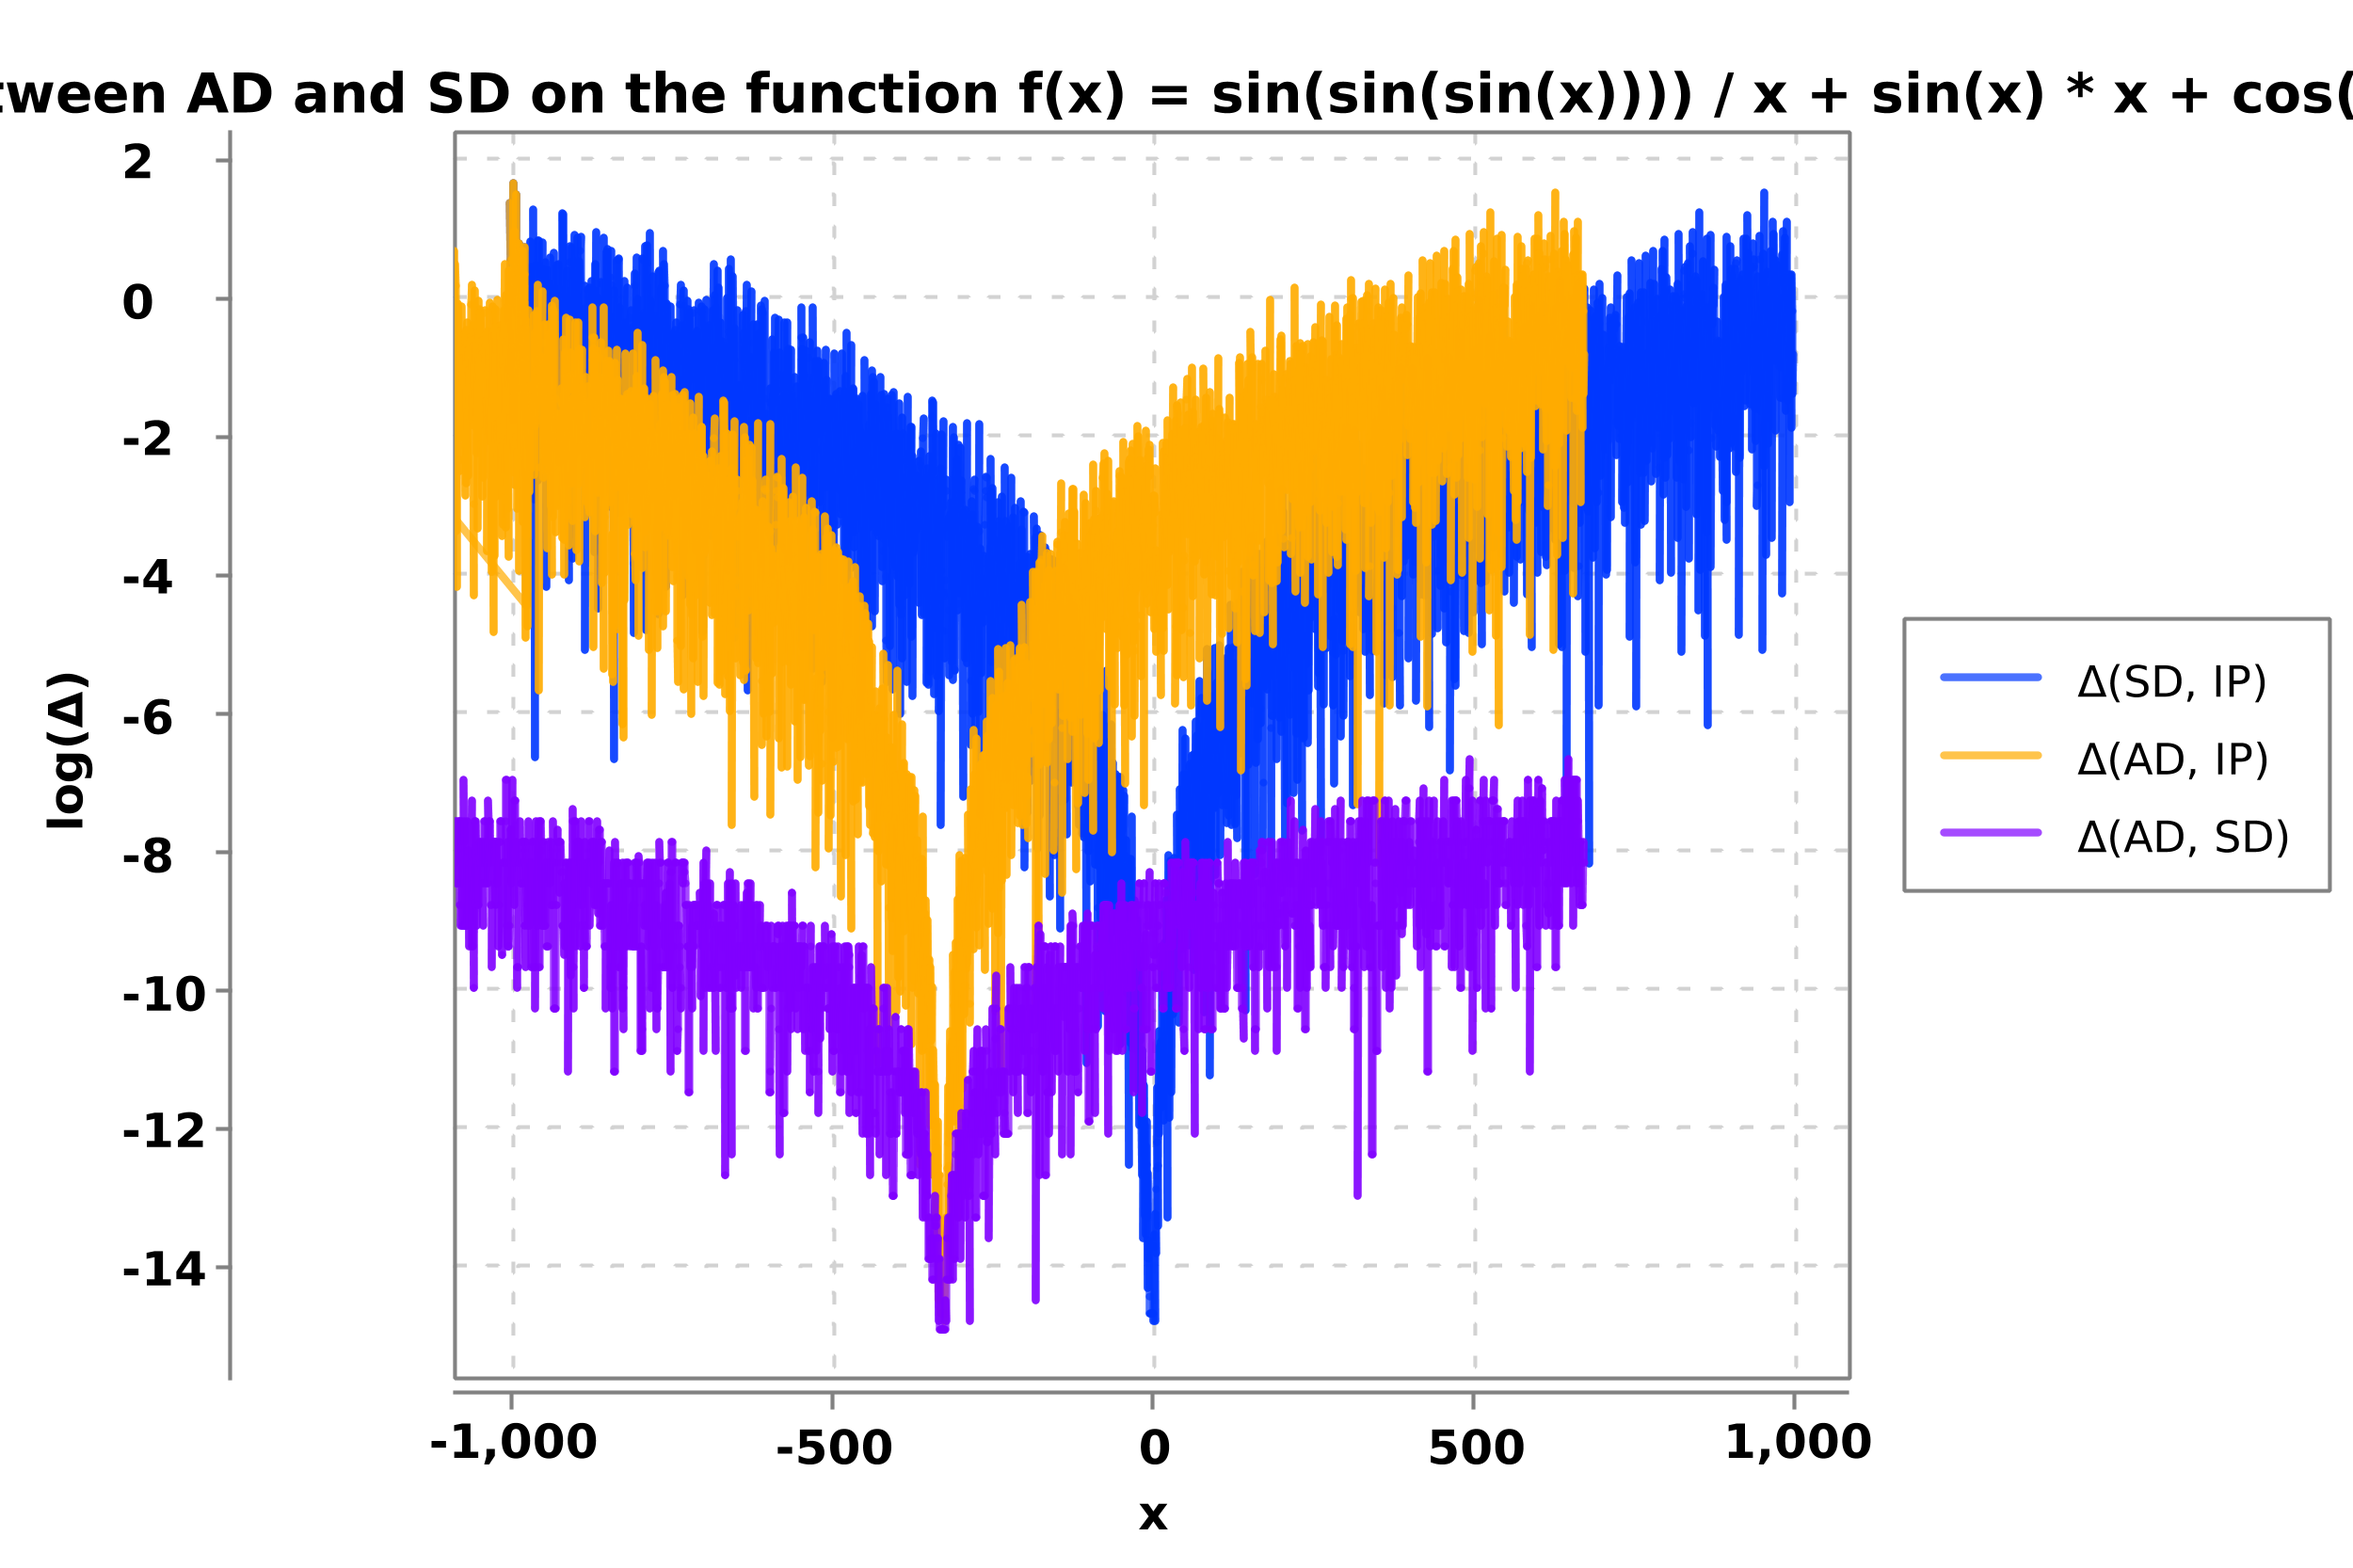
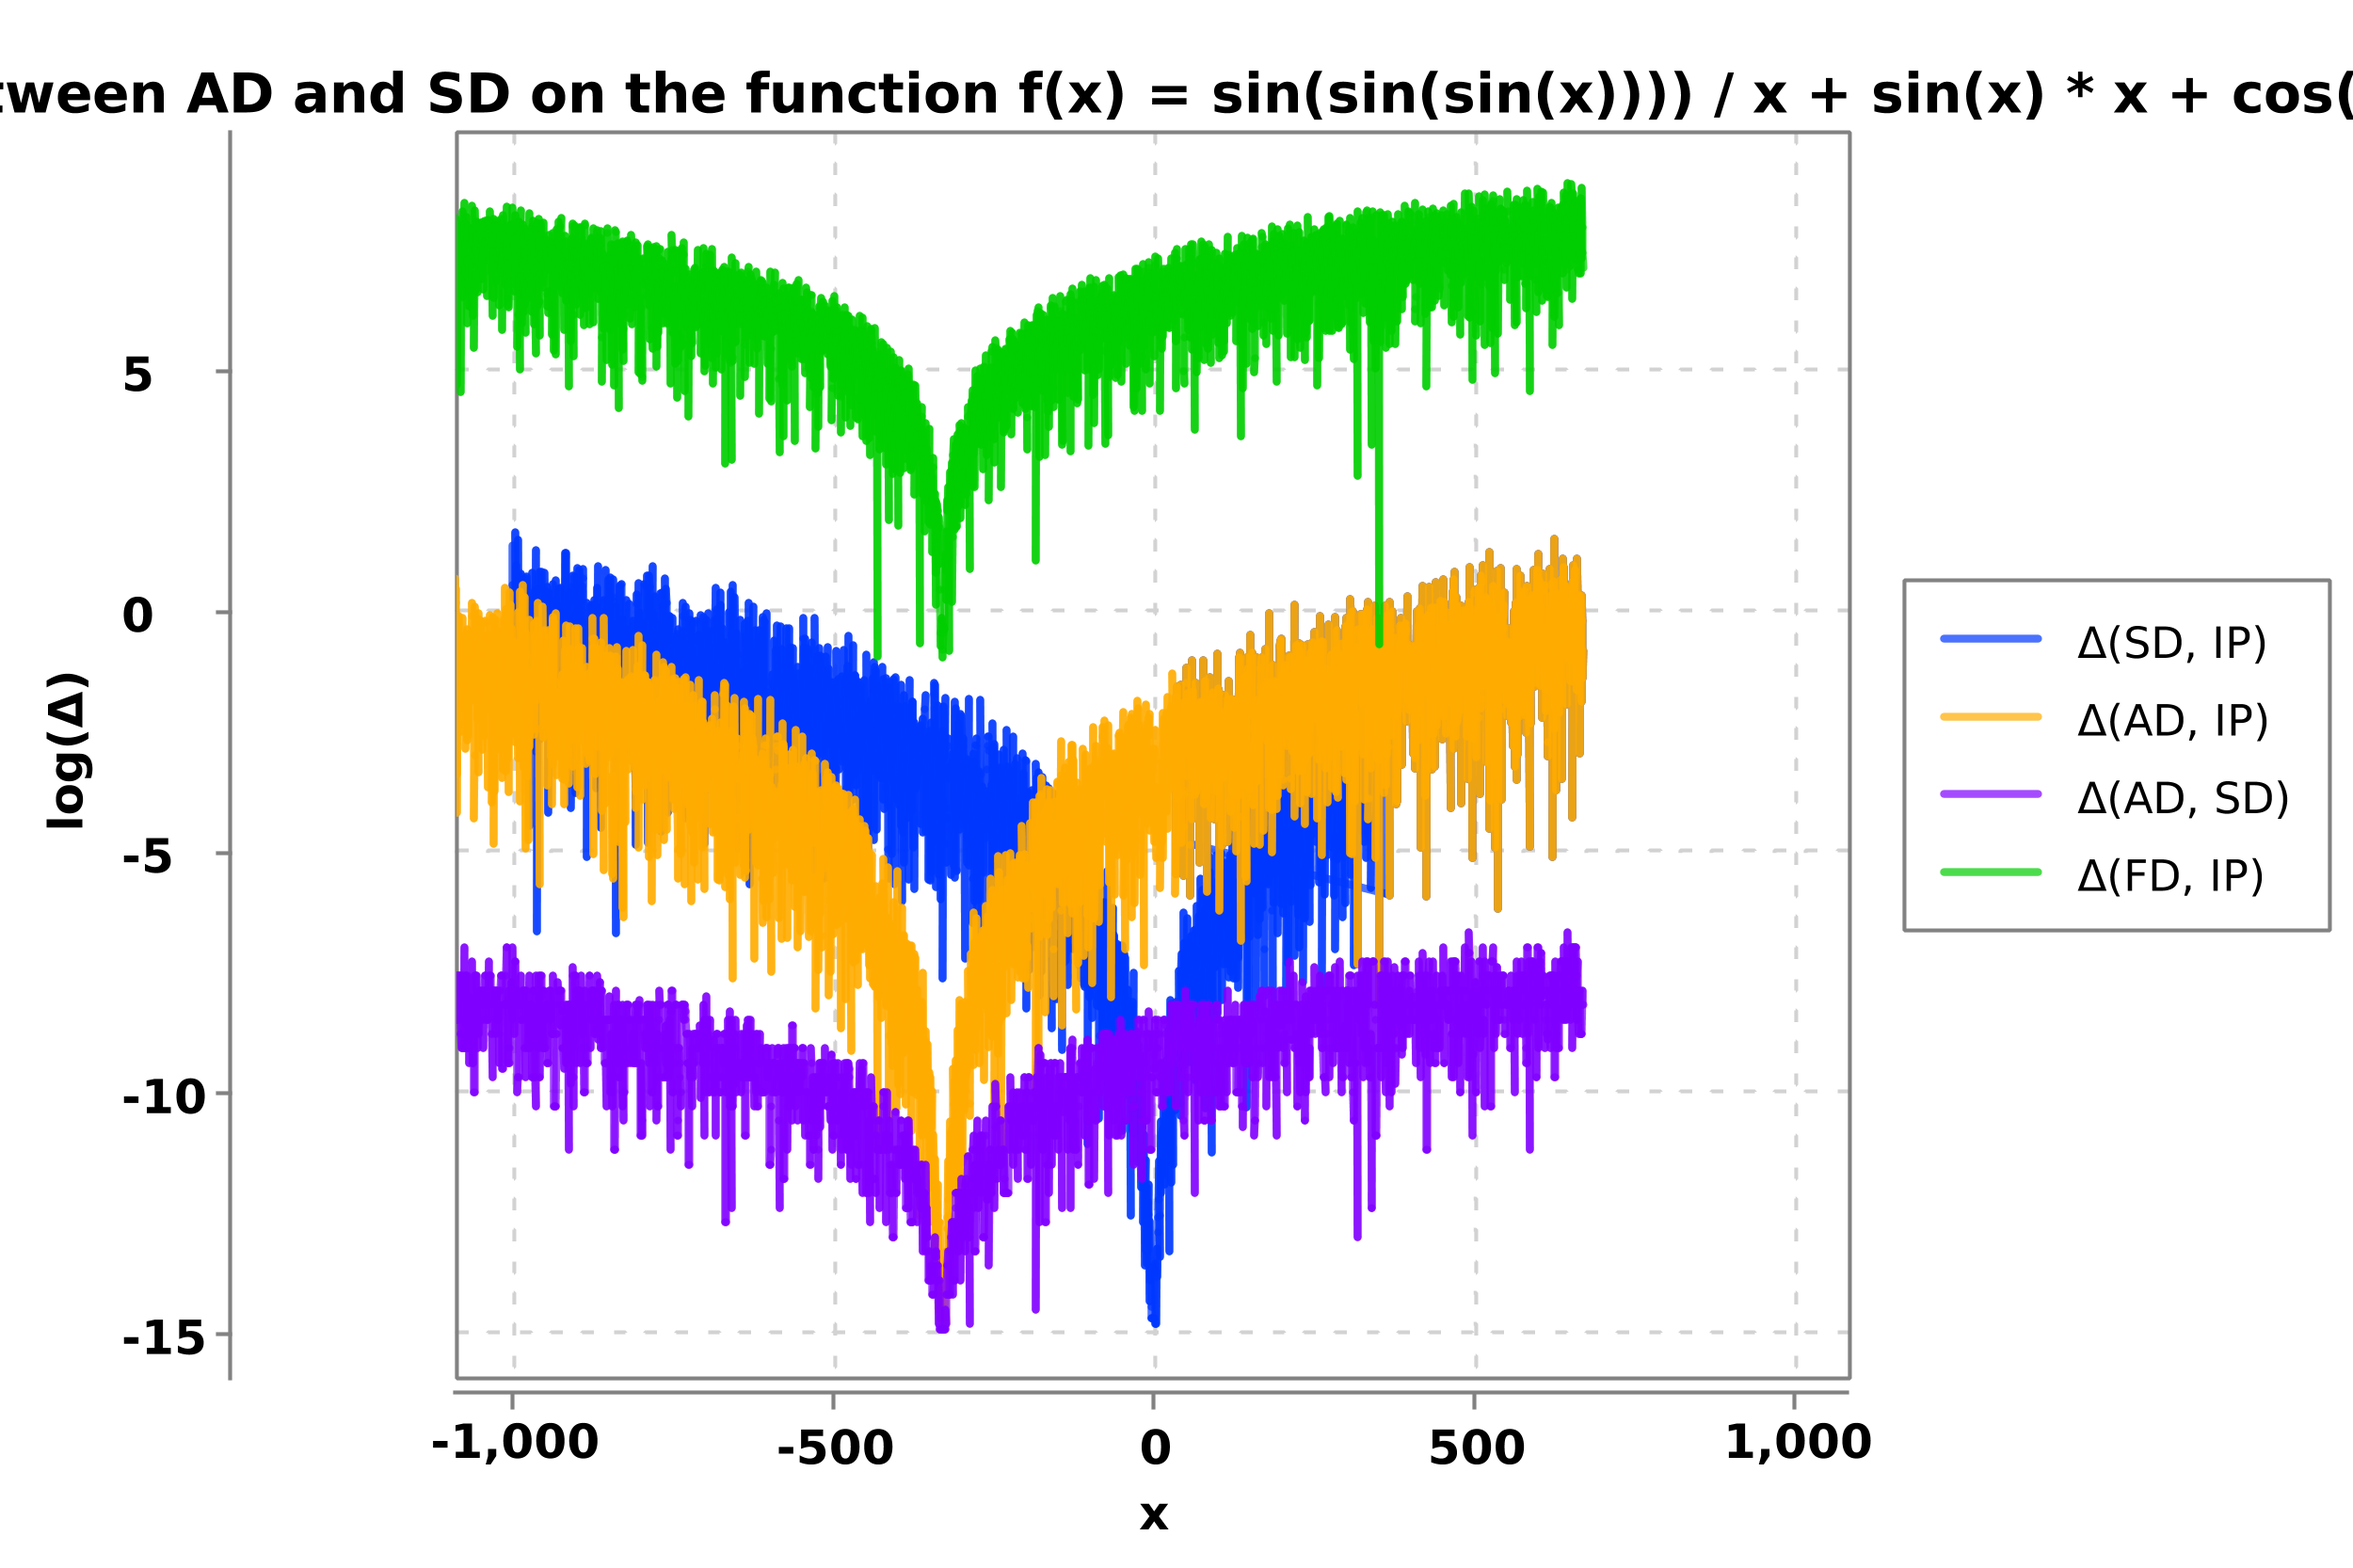
implement substitution notation and add FD comparison

diff --git a/src/main/kotlin/edu/umontreal/kotlingrad/samples/ADSDComparison.kt b/src/main/kotlin/edu/umontreal/kotlingrad/samples/ADSDComparison.kt
@@ -13,6 +13,8 @@ import kotlin.math.log10
 fun main() {
   val xs = (-1000.0..1000.0 step 7E-1).toList().toDoubleArray()
 //  val xs = (-1.0..1.0 step 0.0037).toList().toDoubleArray()
+
+  // Arbitrary precision (defaults to 30 significant figures)
   val bdvals = with(BigDecimalPrecision) {
     val x = Var("x")
     val y = sin(x* cos(x* sin(x * cos(x))))
@@ -25,6 +27,7 @@ fun main() {
     }.map { it.toDoubleArray() }.toTypedArray()
   }
 
+  // Automatic differentiation
   val advals = xs.run {
     fun x1(d: Double = 0.0, x: D = D(d)): D = grad { sin(x* cos(x* sin(x * cos(x)))) }
     fun d1(d: Double = 0.0, x: D = D(d)): D {
@@ -35,6 +38,7 @@ fun main() {
     arrayOf(map { x1(it).x }, map { d1(it).d }).map { it.toDoubleArray() }.toTypedArray()
   }
 
+  // Symbolic differentiation
   val sdvals = with(DoublePrecision) {
     val x = Var("x")
     val y = sin(x* cos(x* sin(x * cos(x))))
@@ -45,7 +49,17 @@ fun main() {
       dy/dx=$`dy∕dx`
       """.trimIndent())
 
-    xs.run { arrayOf(map { y(it) }, map { `dy∕dx`(it) }) }.map { it.toDoubleArray() }.toTypedArray()
+    xs.run { arrayOf(map { y.invoke(it) }, map { `dy∕dx`(it) }) }.map { it.toDoubleArray() }.toTypedArray()
+  }
+
+  // Numerical differentiation using centered differences
+  val fdvals = with(DoublePrecision) {
+    val x = Var("x")
+    val y = sin(x* cos(x* sin(x * cos(x))))
+    val h = 1
+    val `dy∕dx` = (y(x + h) - y(x - h)) / (2 * h)
+
+    xs.run { arrayOf(map { y.invoke(it) }, map { `dy∕dx`(it) }) }.map { it.toDoubleArray() }.toTypedArray()
   }
 
   val t = { i: Double, d: Double -> log10(abs(i - d)).let { if (it < -20) -20.0 else it } }
@@ -53,18 +67,19 @@ fun main() {
   val errors = arrayOf(
     sdvals[1].zip(bdvals[1], t),
     advals[1].zip(bdvals[1], t),
-    advals[1].zip(sdvals[1], t)
-  ).map { it.run { var last = -14.0; map {d -> if(d <= -15.0) last else {last = d; d}}.toDoubleArray() } }.toTypedArray()
+    advals[1].zip(sdvals[1], t),
+    fdvals[1].zip(bdvals[1], t)
+  // Filter out values which hit the floor of numerical precision (effectively zero)
+  ).map { it.run { var last = -14.0; map { d -> if (d <= -15.0) last else { last = d; d } }.toDoubleArray() } }.toTypedArray()
 
   println("SD average error: ${errors[0].average()}")
   println("AD average error: ${errors[1].average()}")
   println("AD/SD average delta: ${errors[2].average()}")
 
-  for (i in 0 until xs.size)
-    println(xs[i].toString() + "," + errors[0][i] + "," + errors[1][i] + "," + errors[2][i])
+  for (i in xs.indices) println(xs[i].toString() + "," + errors[0][i] + "," + errors[1][i] + "," + errors[2][i])
 
   val eqn = "sin(sin(sin(x)))) / x + sin(x) * x + cos(x) + x"
-  val labels = arrayOf("Δ(SD, IP)", "Δ(AD, IP)", "Δ(AD, SD)")
+  val labels = arrayOf("Δ(SD, IP)", "Δ(AD, IP)", "Δ(AD, SD)", "Δ(FD, IP)")
   val chart = QuickChart.getChart("Log errors between AD and SD on the function f(x) = $eqn", "x", "log(Δ)", labels, xs, errors)
 
   chart.styler.chartBackgroundColor = Color.WHITE

diff --git a/src/main/kotlin/edu/umontreal/kotlingrad/numerical/Protocol.kt b/src/main/kotlin/edu/umontreal/kotlingrad/numerical/Protocol.kt
@@ -5,7 +5,7 @@ import edu.umontreal.kotlingrad.functions.ScalarVar
 import java.math.BigDecimal
 
 object BigDecimalPrecision: Protocol<BigDecimalReal, BigDecimal>() {
-  override fun wrap(default: Number) = BigDecimalReal(BigDecimal(default.toDouble()))
+  override fun wrap(default: Number) = BigDecimalReal(BigDecimal(default.toDouble()), 30)
 }
 
 object DoublePrecision: Protocol<DoubleReal, Double>() {
@@ -67,8 +67,10 @@ sealed class Protocol<X: RealNumber<X, Y>, Y> where Y: Number, Y: Comparable<Y> 
 
   operator fun ScalarFun<X>.invoke(vararg number: Number) = this(variables.zip(number).toMap())
   operator fun ScalarFun<X>.invoke(vararg number: X) = this(variables.zip(number).toMap()).proto.value
-  operator fun ScalarFun<X>.invoke(pairs: Map<ScalarVar<X>, Number>) = this(pairs.map { (it.key to wrap(it.value)) }.toMap()).proto.value
-  operator fun ScalarFun<X>.invoke(vararg pairs: Pair<ScalarVar<X>, Number>) = this(pairs.map { (it.first to wrap(it.second)) }.toMap()).proto.value
+  operator fun ScalarFun<X>.invoke(vararg subs: ScalarFun<X>) = this(variables.zip(subs).toMap())
+  @JvmName("numInvoke") operator fun ScalarFun<X>.invoke(pairs: Map<ScalarVar<X>, Number>) = this(pairs.map { (it.key to wrap(it.value)) }.toMap()).proto.value
+  @JvmName("numInvoke") operator fun ScalarFun<X>.invoke(vararg pairs: Pair<ScalarVar<X>, Number>) = this(pairs.map { (it.first to wrap(it.second)) }.toMap()).proto.value
+  @JvmName("subInvoke") operator fun ScalarFun<X>.invoke(vararg pairs: Pair<ScalarVar<X>, ScalarFun<X>>) = this(pairs.map { it.first to it.second }.toMap())
   operator fun Number.invoke(n: Number) = this
 
 //  operator fun <F: `100`> VectorFun<X, F>.invoke(vararg number: Number) = this(variables.zip(number).toMap())

diff --git a/src/main/kotlin/edu/umontreal/kotlingrad/functions/ScalarFun.kt b/src/main/kotlin/edu/umontreal/kotlingrad/functions/ScalarFun.kt
@@ -11,6 +11,23 @@ sealed class ScalarFun<X: ScalarFun<X>>(open val variables: Set<ScalarVar<X>> = 
   constructor(fn: ScalarFun<X>): this(fn.variables)
   constructor(vararg fns: ScalarFun<X>): this(fns.flatMap { it.variables }.toSet())
 
+  @JvmName("substitutionInvoke")
+  operator fun invoke(map: Map<ScalarVar<X>, ScalarFun<X>>): ScalarFun<X> = when (this) {
+    is Exp -> exponent(map).exp()
+    is Log -> logarithmand(map).log()
+    is Negative -> -arg(map)
+    is Power -> base(map) pow exponent(map)
+    is SquareRoot -> radicand(map).sqrt()
+    is Sine -> angle(map).sin()
+    is Cosine -> angle(map).cos()
+    is Tangent -> angle(map).tan()
+    is ScalarConst -> this
+    is ScalarVar -> map.getOrElse(this) { value }
+    is ScalarProduct -> multiplicator(map) * multiplicand(map)
+    is ScalarSum -> augend(map) + addend(map)
+  }
+
+  @JvmName("numericalInvoke")
   operator fun invoke(map: Map<ScalarVar<X>, X>): ScalarFun<X> = when (this) {
     is Exp -> exponent(map).exp()
     is Log -> logarithmand(map).log()

diff --git a/src/main/kotlin/edu/umontreal/kotlingrad/numerical/BigDecimalReal.kt b/src/main/kotlin/edu/umontreal/kotlingrad/numerical/BigDecimalReal.kt
@@ -8,7 +8,7 @@ import java.math.BigDecimal.ZERO
 import java.math.MathContext
 import kotlin.math.E
 
-class BigDecimalReal(number: Number = ZERO): RealNumber<BigDecimalReal, BigDecimal>(when {
+class BigDecimalReal(number: Number, sigFigs: Int = 30): RealNumber<BigDecimalReal, BigDecimal>(when {
     number is BigDecimal -> number
     number.toDouble().isNaN() -> ZERO
     1E30 < number.toDouble() -> BigDecimal(1E30)
@@ -20,7 +20,7 @@ class BigDecimalReal(number: Number = ZERO): RealNumber<BigDecimalReal, BigDecim
   override val one by lazy { BigDecimalReal(ONE) }
   override val two by lazy { BigDecimalReal(ONE + ONE) }
   override val e by lazy { BigDecimalReal(E) }
-  val mc = MathContext(30)
+  val mc = MathContext(sigFigs)
 
   override fun sin() = BigDecimalReal(sin(value, mc))
   override fun cos() = BigDecimalReal(cos(value, mc))
